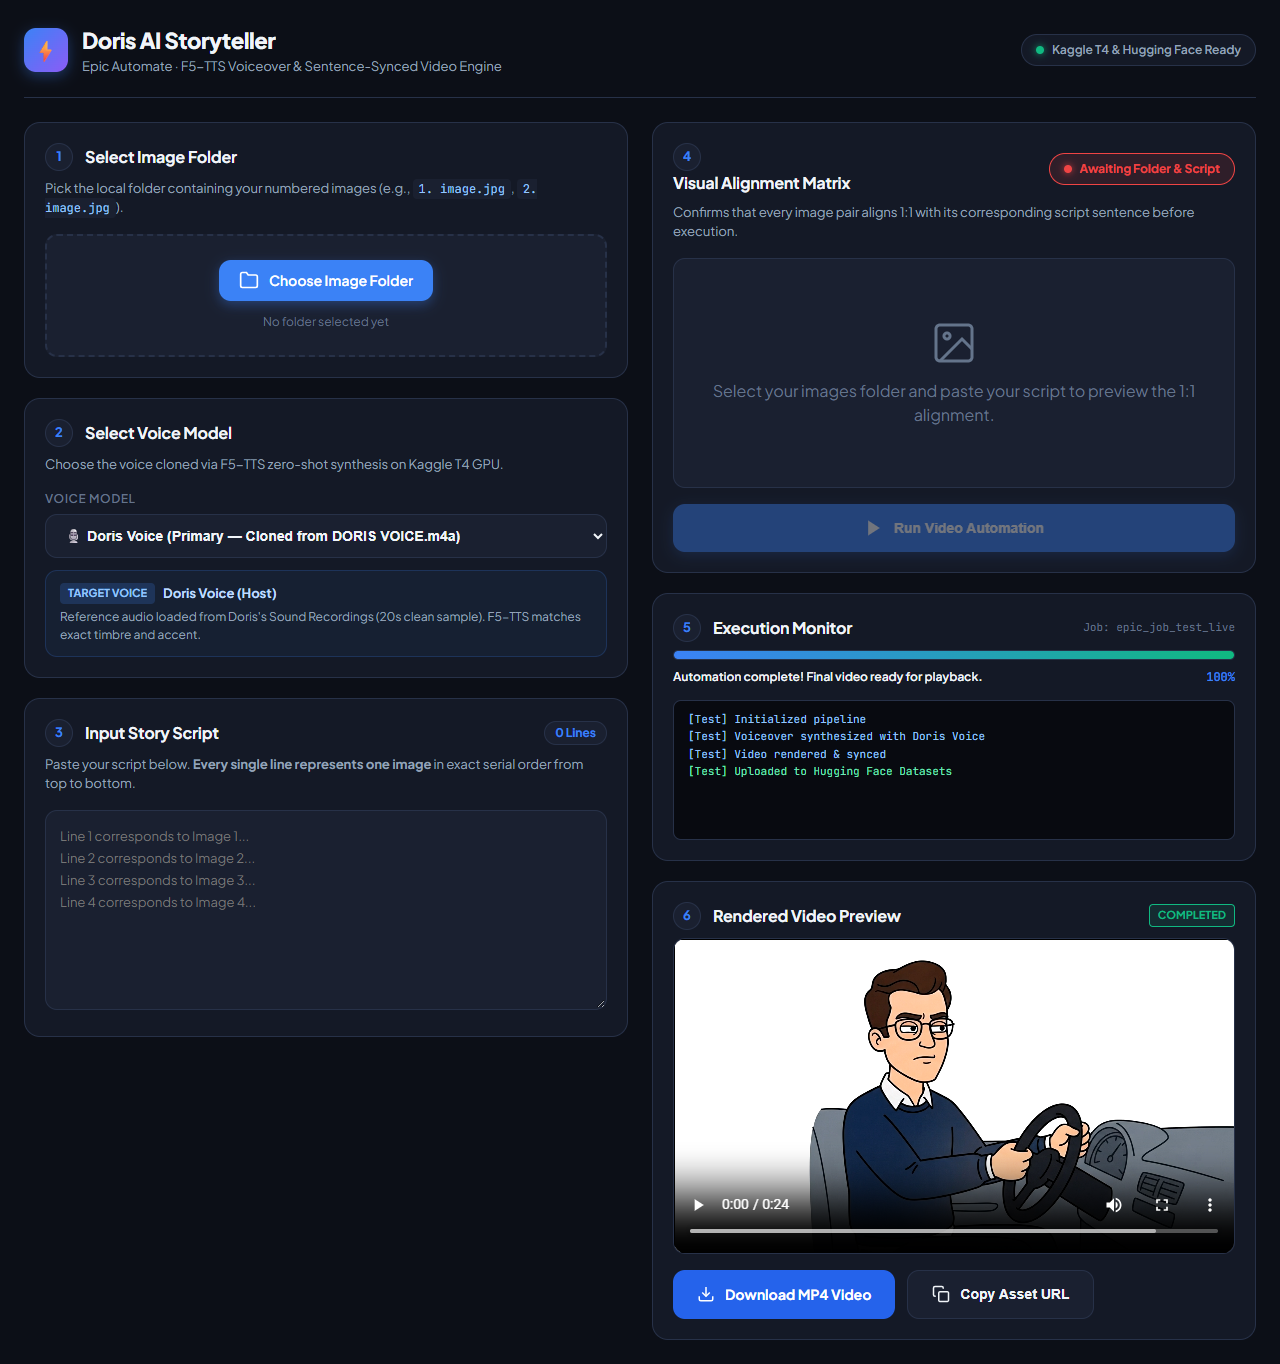
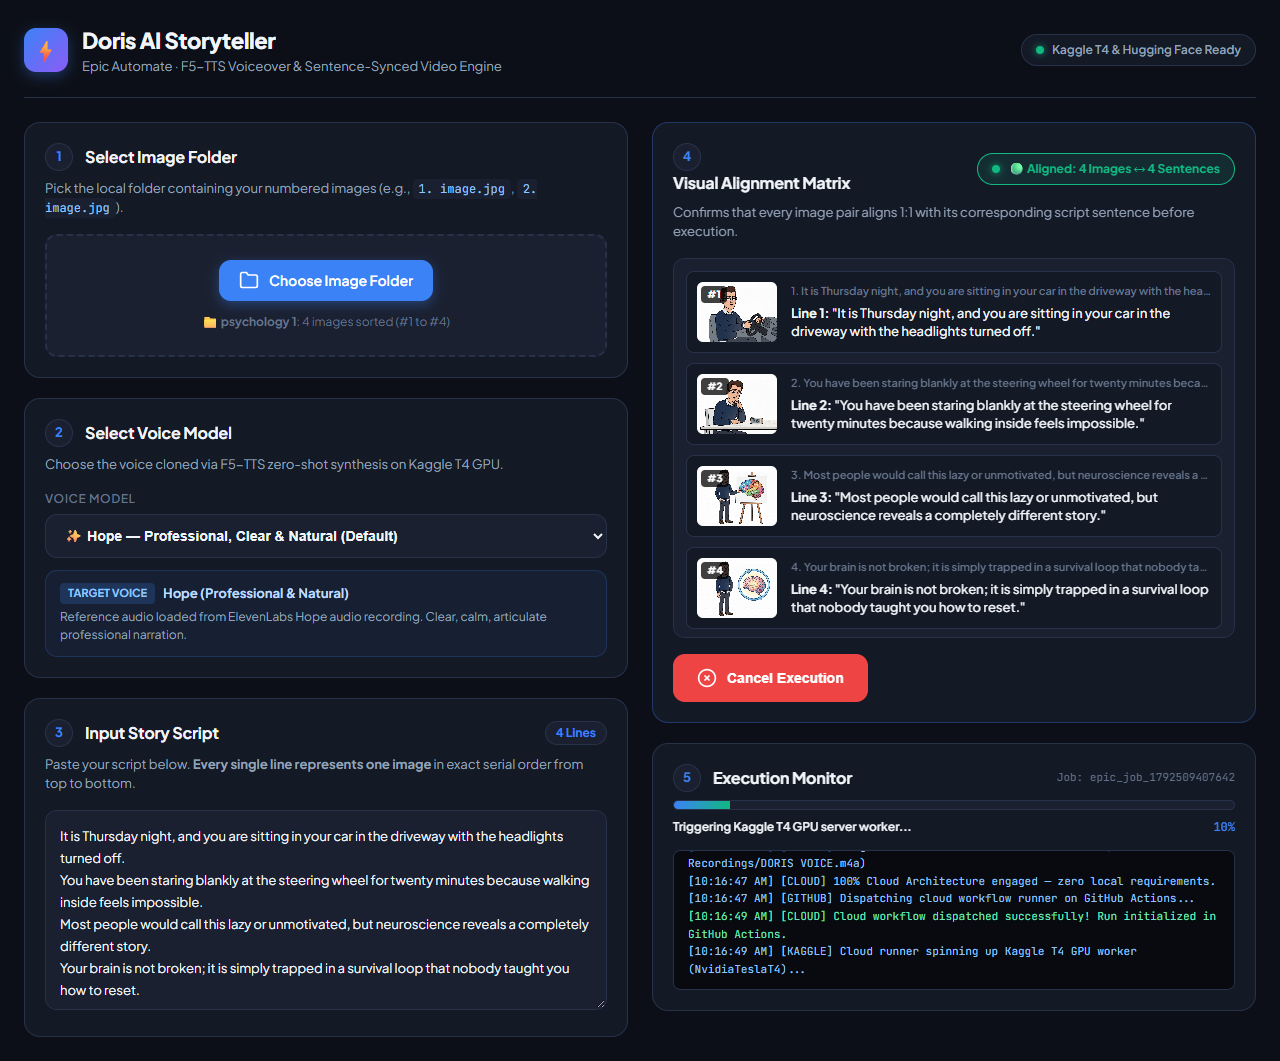
Update Doris skill to support both Edge and Chrome browser sessions

diff --git a/skills/doris/SKILL.md b/skills/doris/SKILL.md
@@ -13,7 +13,7 @@ The unified, 100% autonomous channel production skill specifically configured fo
 > Once triggered, this skill **MUST NOT STOP, PAUSE, OR IMPROVISE**.
 > - **NEVER IMPROVISE OR BYPASS ANY STAGE**: The agent **MUST** follow every step of this pipeline literally and strictly.
 > - **NO IMAGE RECYCLING**: Never reuse or copy images from previous runs or older project folders. Every single video requires fresh scene frames batch-generated through Google Flow (`https://flow.google.com/shared/tool/ee8f4722-38cb-4363-967f-057725e7c3c6`). Whether the video requires 15, 17, or 180+ images, only Google Flow has the required speed and style consistency.
-> - **ACTIVE CHROME SESSION & PERMISSION PROTOCOL**: Google Flow must run inside the user's active, signed-in Chrome session via remote debugging (`localhost:9222`) to access their authenticated account and tool configuration. If port 9222 is not reachable or if Chrome displays an approval prompt, the agent must prompt the user once to grant permission / click "Allow" on their open Chrome window, then continue without further pause.
+> - **ACTIVE BROWSER SESSION & PERMISSION PROTOCOL (Chrome or Edge)**: Google Flow must run inside the user's active, signed-in browser session (Microsoft Edge or Google Chrome) via remote debugging (`localhost:9222`) to access their authenticated account and tool configuration. If port 9222 is not reachable or if the browser displays an approval prompt, the agent must prompt the user once to grant permission / click "Allow" on their open browser window (or launch via the desktop automation shortcut), then continue without further pause.
 > - **KAGGLE GPU PIPELINE**: Audio synthesis and video rendering must execute via the Kaggle T4 GPU worker container (`doris-storyteller-worker`) and the cloud orchestrator.
 > - **STRICT DURATION CALIBRATION**: If a 1-minute video is requested, the script must be a full 60 seconds (150–240 words, 14–16 sentences), never an abbreviated 20-second clip.
 > - The agent **must autonomously execute all 5 phases sequentially in one continuous run**, auto-resolving any minor hurdles, and only concluding when the finalized, synchronized 1080p master video is delivered.
@@ -46,7 +46,7 @@ Activate this skill whenever the user says:
 | **Official YouTube Channel** | **[Dr Doris Psych (`https://www.youtube.com/@DrDorisPsych`)](https://www.youtube.com/@DrDorisPsych)** | Embedded anchor channel for duplicate prevention, style alignment & performance baseline |
 | **Live Automation Web App** | `https://dorisautomate.web.app` | Asset ingestion, visual alignment, voice selection & cloud video assembly |
 | **Google Flow Tool** | `https://flow.google.com/shared/tool/ee8f4722-38cb-4363-967f-057725e7c3c6` | High-throughput batch 2D animation scene generation |
-| **Active Chrome Window** | Remote Debugging on `localhost:9222` | Authenticated session for Flow and web app interaction |
+| **Active Browser Window** | Remote Debugging on `localhost:9222` | Authenticated session (Edge or Chrome) for Flow and web app interaction |
 | **Hugging Face Datasets** | `Dorisautomate/automation-assets` | Cloud asset storage, voice references & rendered master MP4s |
 | **Kaggle GPU Accelerator** | `dorisautomate/doris-storyteller-worker` (T4 GPU) | F5-TTS zero-shot voice synthesis & FFmpeg video stitching |
 | **Default Voice Profile** | `✨ Hope — Professional, Clear & Natural` | Cloned from ElevenLabs reference recording via F5-TTS |
